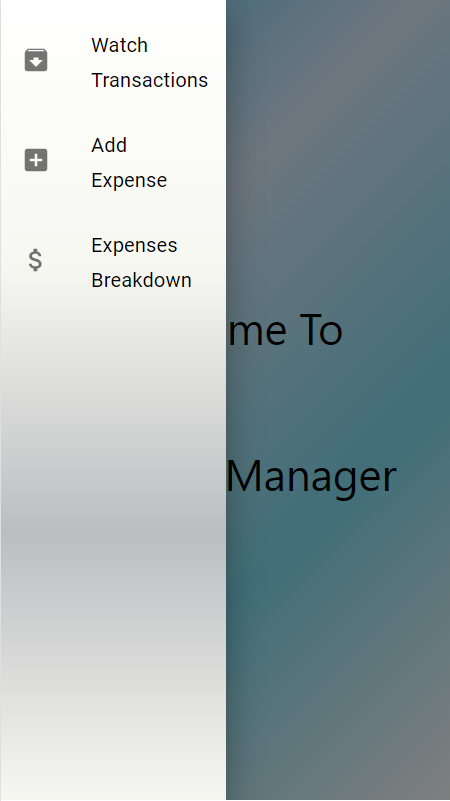
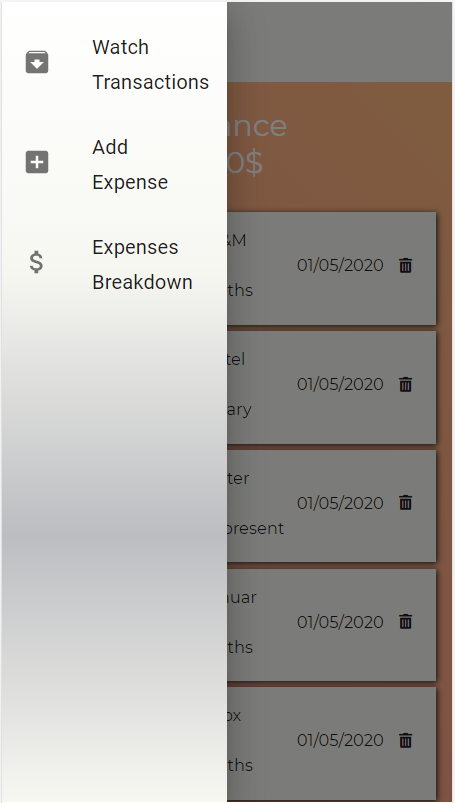
updated design

diff --git a/src/App.css b/src/App.css
@@ -57,7 +57,7 @@ body{
   position: absolute;
   height: 100vh;
   width: 100vw;
-  background-image: linear-gradient(180deg,white,#F7F7F2,#BCBDC0,#F7F7F2);
+  background-image: linear-gradient(45deg, #FE8F8F, #FEB880);
   background-color: #FFFBFF;
   font-size: 35px;
 }
